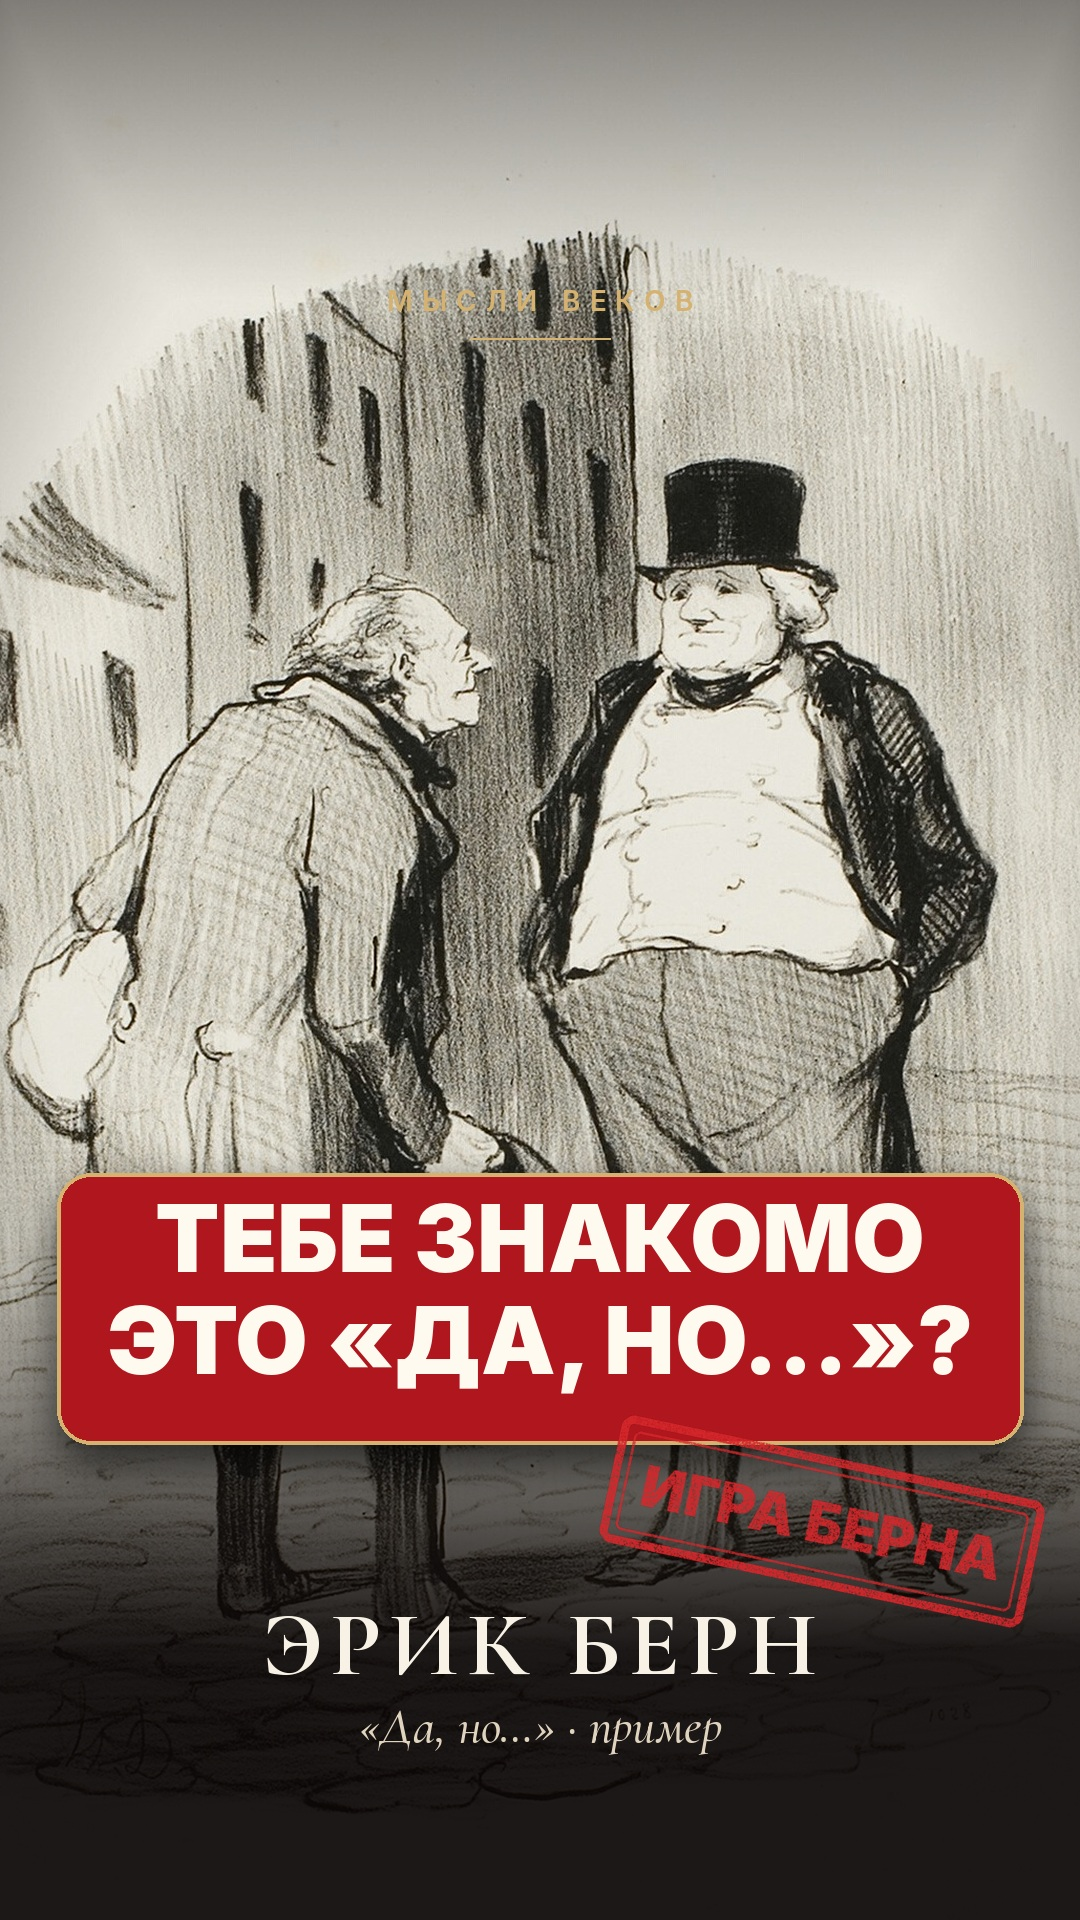
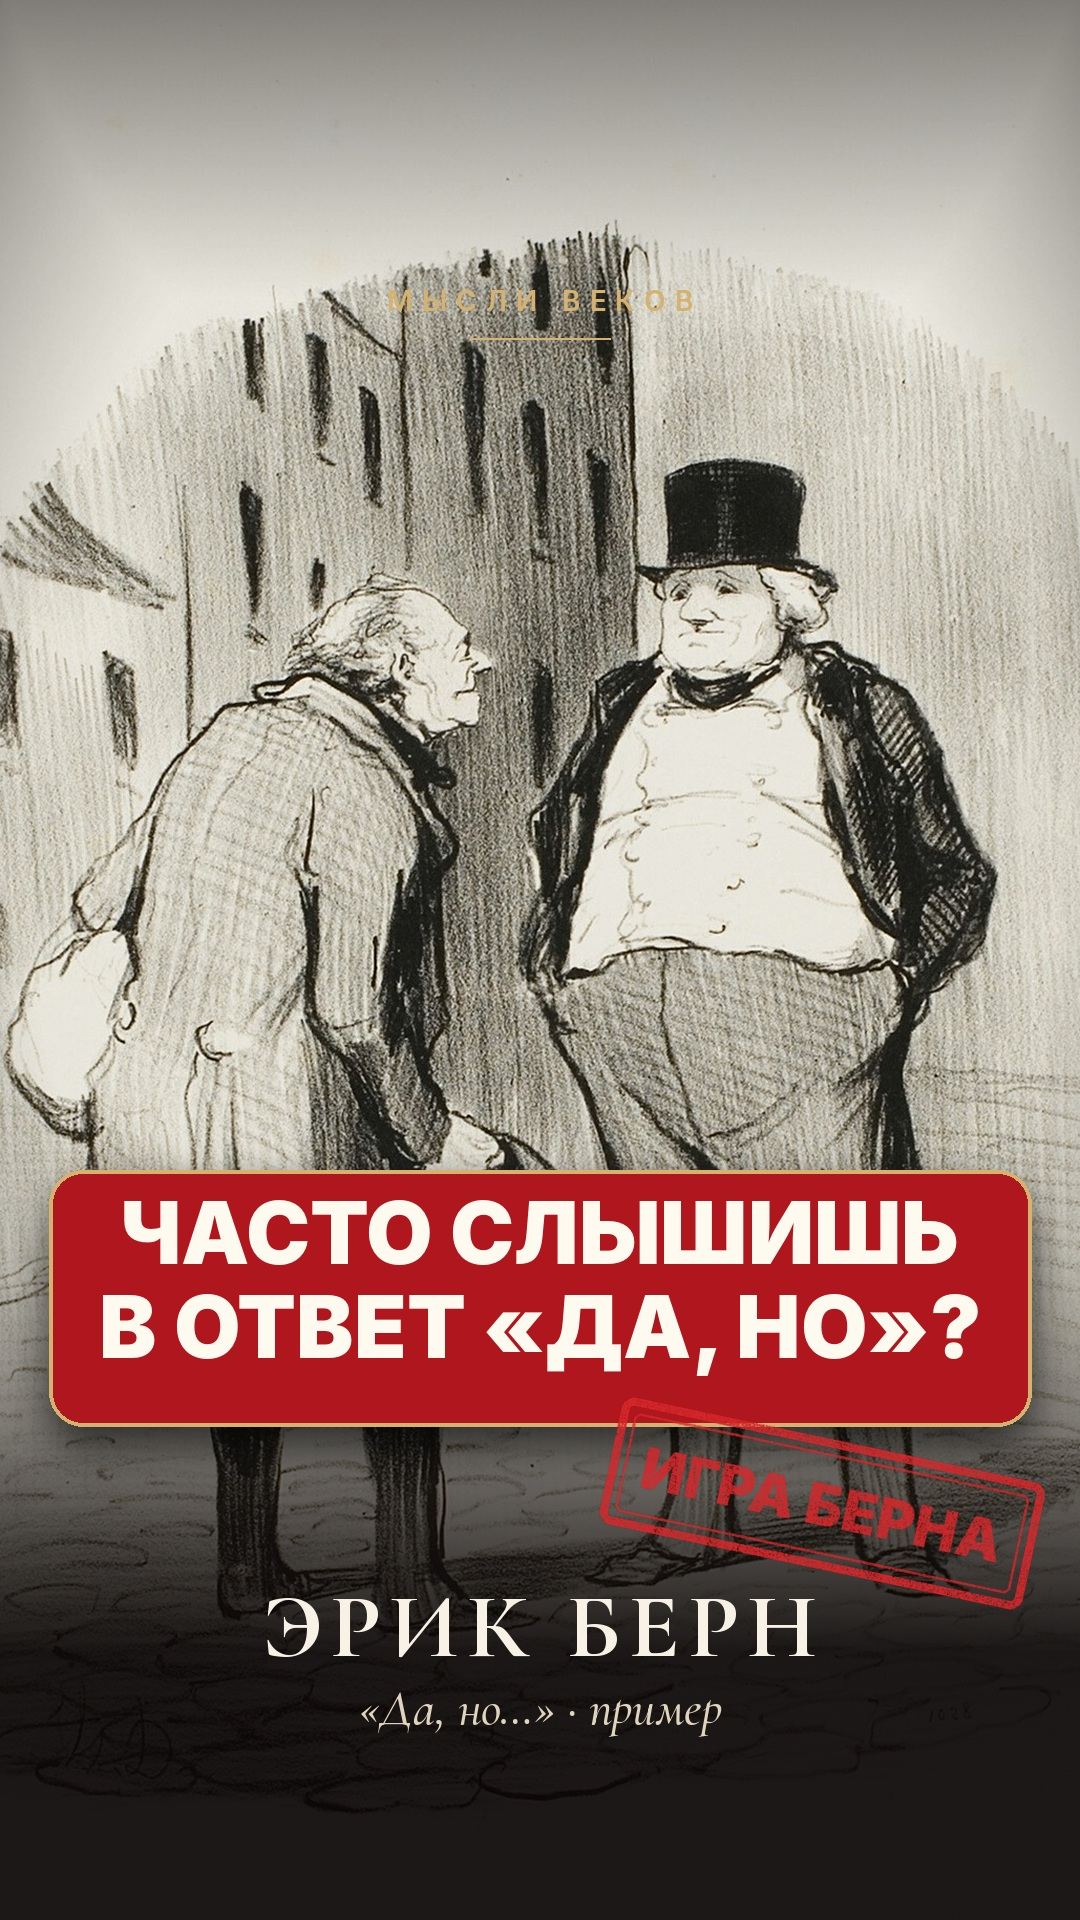
Берн: голос _voice3 (студийный, мягкий), правки озвучки, обложка 50, патч движка
Claude-Session: https://claude.ai/code/session_01LBArE6Wdiz6oYBkRv8XEsE

Changed region(s): [[0.0306, 0.5938, 0.9778, 0.9062], [0.2444, 0.8125, 0.5194, 0.9062]]

diff --git a/reels/configs/berne_swymd.py b/reels/configs/berne_swymd.py
@@ -1,6 +1,6 @@
 """Книга недели, 21.10 · 18:00 · Э. Берн, «Игры, в которые играют люди» (1964), игра «Смотри, что ты заставил меня сделать» (See What You Made Me Do).
 Сцена с полкой придумана («Пример»). Картины — Art Institute of Chicago (CC0)."""
-import os, sys; sys.path.insert(0, os.path.dirname(__file__)); from _voice2 import *
+import os, sys; sys.path.insert(0, os.path.dirname(__file__)); from _voice3 import *
 HEAD = ("ПРИМЕР · ЭРИК БЕРН", "«ИГРЫ, В КОТОРЫЕ ИГРАЮТ ЛЮДИ»")
 TITLE = ("", "", "")
 HOOK = ("ОН УДАРИЛ СЕБЯ\nМОЛОТКОМ. ВИНОВАТА ДОЧЬ", 3.0)
@@ -14,9 +14,9 @@ C_F = "Генри Фюзели. Мильтон диктует дочери, 1794
 C_W = "Жан-Франсуа Милле. Дровосек, около 1858–1866 (Art Institute of Chicago)"
 C_C = "Мэри Кассатт. Поцелуй матери на ночь, 1888 (Art Institute of Chicago)"
 SCENES = [
-    ("Он ударил себя молотком. | Виновата дочь.",
+    ("Он ударил себя молотком. | А виновата — дочь.",
      "SUB", "", "b_34579c", C_K, (1.0, 1.15, (0.5, 0.5), (0.5, 0.45))),
-    ("Пример: отец чинит полку, | дочь спрашивает про уроки.",
+    ("Допустим, отец чинит полку, | а дочь спрашивает про уроки.",
      "SUB", "ПРИМЕР", "b_9484c", C_P, (1.0, 1.12, (0.5, 0.5), (0.5, 0.45))),
     ("Он попадает по пальцу и кричит: | «Смотри, что ты заставила меня сделать!»",
      "SUB", "", "b_81521", C_W, (1.0, 1.15, (0.5, 0.4), (0.5, 0.35))),
@@ -24,11 +24,11 @@ SCENES = [
      "SUB", "", "b_44739", C_F, (1.0, 1.15, (0.35, 0.5), (0.3, 0.45))),
     ("Берн описал такую игру: | ошибся я, но виноват тот, кто рядом.",
      "SUB", "СМОТРИ, ЧТО ТЫ ЗАСТАВИЛ МЕНЯ СДЕЛАТЬ", "b_7778c", C_U, (1.0, 1.15, (0.5, 0.45), (0.5, 0.5))),
-    ("Но самое тяжёлое дальше. | Ребёнок может привыкнуть: | чужие промахи — его вина.",
+    ("А самое тяжёлое — впереди. | Ребёнок может привыкнуть: | чужие промахи — его вина.",
      "SUB", "", "b_81527", C_C, (1.0, 1.15, (0.5, 0.35), (0.5, 0.4))),
     ("Поэтому и во взрослом возрасте | многие извиняются первыми, | даже когда ни при чём.",
      "SUB", "", "b_9484c", C_P, (1.2, 1.35, (0.5, 0.35), (0.5, 0.4))),
-    ("А ты сам? | За чьи ошибки ты просил прощения?",
+    ("А ты сам? | Ты просил прощения за чужие ошибки?",
      "SUB", "", "b_34579c", C_K, (1.25, 1.4, (0.5, 0.35), (0.5, 0.3))),
     ("Полка упала не по твоей вине. | Но вина перешла к тому, кто рядом.",
      "SUB", "", "b_44739", C_F, (1.2, 1.35, (0.3, 0.45), (0.3, 0.5))),

diff --git a/reels/cinema_engine.py b/reels/cinema_engine.py
@@ -51,11 +51,11 @@ def tts(text, spk):
         if _VOSK is None:
             from vosk_tts import Model as VM, Synth as VS
             _VOSK = VS(VM(model_name=vk.get("model", "vosk-model-tts-ru-0.9-multi")))
-        parts = [p for p in re.split(r"(?<=[.:!?])\s+", re.sub(r"[«»“”\"]", "", text if vk.get("stress") else text.replace("+", ""))) if p.strip()]; out = []
+        parts = [p for p in re.split(r"(?<=[.:!?])\s+", re.sub(r"[«»“”\"]", "", (text if vk.get("stress") else text.replace("+", "")).replace("…", "."))) if p.strip()]; out = []
         for k, p in enumerate(parts):
             a = np.asarray(_VOSK.synth_audio(p, speaker_id=vk.get("speaker", 4), speech_rate=vk.get("rate", 1.0)), np.float32) / 32768.0
             out.append(ss_.resample_poly(a, SR, 22050).astype(np.float32))
-            if k < len(parts) - 1: out.append(np.zeros(int(SR * vk.get("dot", 380) / 1000), np.float32))
+            if k < len(parts) - 1: out.append(np.zeros(int(SR * vk.get("dot", 380) * (vk.get("qmul", 1.0) if p.rstrip().endswith("?") else 1.0) / 1000), np.float32))
         return np.concatenate(out)
     pr = getattr(cfg, "PROSODY", None)
     if pr:                                                               # «голос B»: темп и тон задаёт сам синтезатор (SSML), фраза целиком — живая интонация

diff --git a/reels/make_covers_day21.py b/reels/make_covers_day21.py
@@ -4,6 +4,6 @@ HERE = os.path.dirname(os.path.abspath(__file__)); sys.path.insert(0, HERE)
 from make_covers_click import make_click
 from make_covers_day2 import crop
 make_click(crop("b_94840", 0.5, 0.4, 2000), "МУЖ НЕ ПУСКАЛ ЕЁ\nИЗ ДОМА. ПОТОМ ПУСТИЛ", "ИГРА БЕРНА", "ЭРИК БЕРН", "«Если бы не ты»", "49_berne_ifnot_click", y=1180, stamp_pos="bottom")
-make_click(crop("b_7792c", 0.5, 0.45, 1830), "ТЕБЕ ЗНАКОМО\nЭТО «ДА, НО…»?", "ИГРА БЕРНА", "ЭРИК БЕРН", "«Да, но…» · пример", "50_berne_yesbut_click", y=1180, stamp_pos="bottom")
+make_click(crop("b_7792c", 0.5, 0.45, 1830), "ЧАСТО СЛЫШИШЬ\nВ ОТВЕТ «ДА, НО»?", "ИГРА БЕРНА", "ЭРИК БЕРН", "«Да, но…» · пример", "50_berne_yesbut_click", y=1180, stamp_pos="bottom")
 make_click(crop("b_34579c", 0.5, 0.45, 2150), "ОН УДАРИЛ СЕБЯ\nМОЛОТКОМ. ВИНОВАТА ДОЧЬ", "ИГРА БЕРНА", "ЭРИК БЕРН", "«Смотри, что ты заставил меня» · пример", "51_berne_swymd_click", y=1180, stamp_pos="bottom")
 print("ok")

diff --git a/reels/configs/berne_ifnot.py b/reels/configs/berne_ifnot.py
@@ -1,7 +1,7 @@
 """Книга недели, 21.10 · 10:00 · Э. Берн, «Игры, в которые играют люди» (1964), игра «Если бы не ты» (If It Weren't For You).
 Случай жены, которая жаловалась на мужа и после его смягчения стала бояться выходить одна — пересказ по памяти, сверить с русским изданием.
 Не диагноз. Картины — The Met (CC0), Art Institute of Chicago (CC0)."""
-import os, sys; sys.path.insert(0, os.path.dirname(__file__)); from _voice2 import *
+import os, sys; sys.path.insert(0, os.path.dirname(__file__)); from _voice3 import *
 HEAD = ("ЭРИК БЕРН", "«ИГРЫ, В КОТОРЫЕ ИГРАЮТ ЛЮДИ»")
 TITLE = ("", "", "")
 HOOK = ("МУЖ НЕ ПУСКАЛ ЕЁ\nИЗ ДОМА. ПОТОМ ПУСТИЛ", 3.0)

diff --git a/reels/configs/_voice3.py b/reels/configs/_voice3.py
@@ -1,0 +1,5 @@
+"""Голос недели Берна (21.10.2026, просьба пользователя: студийный, мягкий, выразительный): Vosk диктор 4, темп 0.88, паузы длиннее,
+после вопроса пауза в 1,5 раза длиннее; мягкая студийная обработка (тепло снизу, срезаны «гул» и резкость, лёгкая комната)."""
+from _voice2 import *
+VOSK = dict(speaker=4, rate=0.88, dot=560, qmul=1.5, stress=True)
+VOICE_FX = "highpass=f=70,equalizer=f=120:t=q:w=1:g=2.5,equalizer=f=280:t=q:w=1.2:g=-2,equalizer=f=2800:t=q:w=1.5:g=-1,equalizer=f=7000:t=h:w=1:g=-3,deesser=i=0.35,acompressor=threshold=0.09:ratio=3:attack=15:release=250:makeup=2,aecho=0.85:0.8:22|44:0.07|0.04,alimiter=limit=0.9"
